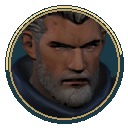
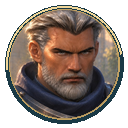
art(HUD): encuadra el nivel del aserradero y comparte la efigie de Aldric

diff --git a/Unity/Assets/Experimentos/ValoriaModular25D/Scripts/Modular25DInterface.cs b/Unity/Assets/Experimentos/ValoriaModular25D/Scripts/Modular25DInterface.cs
@@ -625,10 +625,14 @@ namespace Eldoria.Experimentos.ValoriaModular25D
                         ? "OBRA  "+(timeLeft/60L).ToString()+":"+(timeLeft%60L).ToString("00")
                         : "ASERRADERO";
                 bool constructing=building==ParcelBuildingState.UNDER_CONSTRUCTION;
-                sawmillTagText.rectTransform.anchoredPosition=
-                    new Vector2(12f,constructing?3f:0f);
-                sawmillTagText.rectTransform.sizeDelta=
-                    new Vector2(100f,constructing?23f:30f);
+                // The gilded end caps and hammer sit inside the painted width.
+                // Measure the localized caption so a completed mill can show its
+                // level without projecting past the right cap.
+                float captionWidth=Mathf.Max(74f,Mathf.Ceil(sawmillTagText.preferredWidth));
+                float plateWidth=captionWidth+43f;
+                sawmillTag.sizeDelta=new Vector2(plateWidth,27f);
+                sawmillTagText.rectTransform.anchoredPosition=new Vector2(9f,constructing?3f:0f);
+                sawmillTagText.rectTransform.sizeDelta=new Vector2(captionWidth,constructing?23f:30f);
                 if(worldProgressTrack!=null)
                     worldProgressTrack.gameObject.SetActive(constructing);
                 if (constructing && worldProgressFill)
